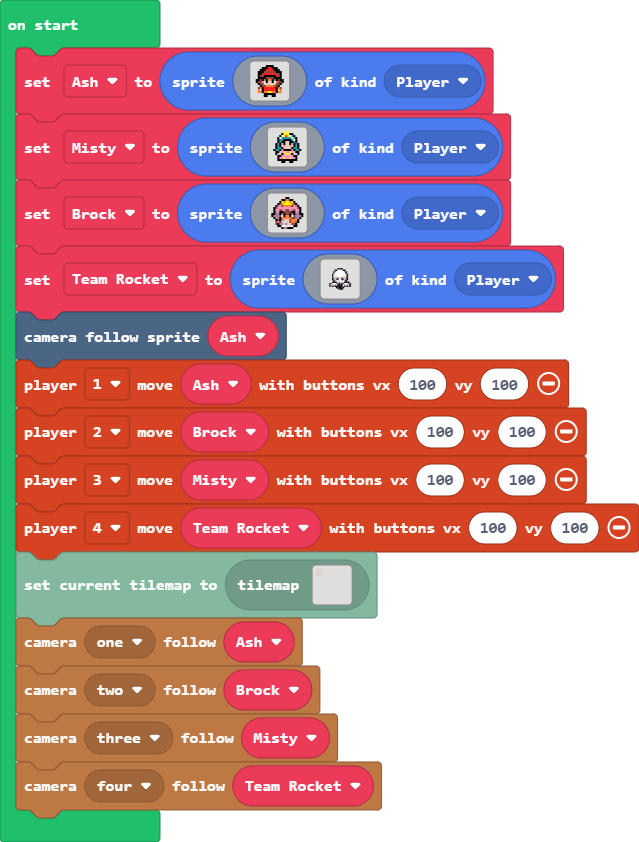
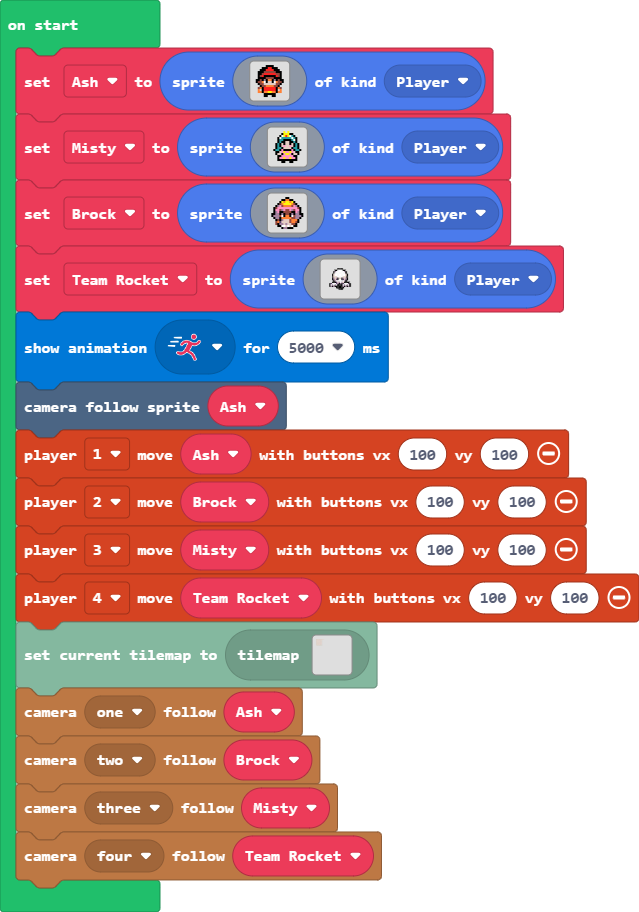
Update main.blocks, main.ts

diff --git a/main.ts b/main.ts
@@ -78,6 +78,7 @@ let Team_Rocket = sprites.create(img`
     ........................
     ........................
     `, SpriteKind.Player)
+light.showAnimation(light.runningLightsAnimation, 5000)
 scene.cameraFollowSprite(Ash)
 controller.player1.moveSprite(Ash, 100, 100)
 controller.player2.moveSprite(Brock, 100, 100)
